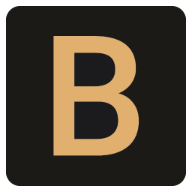
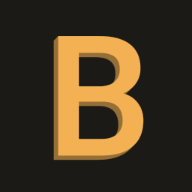
feat: Search Engine Optimization CMS
- Added SEO properties to the CMS
- Tweaked Theme Color
- Replaced favicons

diff --git a/pages/index.tsx b/pages/index.tsx
@@ -1,5 +1,4 @@
 import type { GetStaticProps } from "next";
-import Head from "next/head";
 import Footer from "../components/Footer";
 import Header from "../components/Header/Header";
 import Landing from "../components/Landing";
@@ -7,23 +6,26 @@ import SectionComponent from "../components/Section";
 import React, { createRef, useEffect, useState } from "react";
 import ProjectsGrid from "../components/Projects/ProjectsGrid";
 import SkillsGrid from "../components/Skills/SkillsGrid";
-import { Project, Section, SkillGroup, Social } from "../typings";
+import { Project, Section, SEO, SkillGroup, Social } from "../typings";
 import { sanityClient } from "../sanity";
 import {
   projectsQuery,
   sectionsQuery,
+  seoQuery,
   skillsQuery,
   socialsQuery,
 } from "../lib/getQuery";
+import SEOComponent from "../components/SEO";
 
 interface Props {
+  seo: SEO;
   sections: Section[];
   projects: Project[];
   skills: SkillGroup[];
   socials: Social[];
 }
 
-const Home = ({ sections, projects, skills, socials }: Props) => {
+const Home = ({ seo, sections, projects, skills, socials }: Props) => {
   const [currentElementIndexInViewport, setCurrentElementIndexInViewport] =
     useState(0);
 
@@ -66,14 +68,7 @@ const Home = ({ sections, projects, skills, socials }: Props) => {
 
   return (
     <div>
-      <Head>
-        <title>
-          Borhan Saflo | Web Developer, Designer, & Aspiring Software Engineer
-        </title>
-        <meta name="description" content="Borhan Saflo" />
-        <link rel="icon" href="/favicon.ico" />
-      </Head>
-
+      <SEOComponent seo={seo} />
       <Header
         sections={sections}
         socials={socials}
@@ -109,6 +104,7 @@ const Home = ({ sections, projects, skills, socials }: Props) => {
 export default Home;
 
 export const getStaticProps: GetStaticProps = async ({ params }) => {
+  const seo: SEO = await sanityClient.fetch(seoQuery);
   const socials: Social[] = await sanityClient.fetch(socialsQuery);
   const sections: Section[] = await sanityClient.fetch(sectionsQuery);
   const projects: Project[] = await sanityClient.fetch(projectsQuery);
@@ -116,6 +112,7 @@ export const getStaticProps: GetStaticProps = async ({ params }) => {
 
   return {
     props: {
+      seo,
       projects,
       sections,
       skills,

diff --git a/components/SEO/index.tsx b/components/SEO/index.tsx
@@ -1,0 +1,60 @@
+import React from "react";
+import Head from "next/head";
+import { SEO } from "../../typings";
+import { urlFor } from "../../sanity";
+
+const SEO = ({ seo }: { seo: SEO }) => {
+  const socialTags = (seo: SEO) => {
+    const metaTags = [
+      { name: "og:title", content: seo.title },
+
+      { name: "og:type", content: seo.openGraphType },
+      { name: "og:url", content: seo.url },
+      {
+        name: "og:image",
+        content: seo.image
+          ? urlFor(seo.image).url()
+          : "/images/Borhan-Saflo-Logo.png",
+      },
+      { name: "og:image:width", content: "800" },
+      { name: "og:image:height", content: "800" },
+      { name: "og:image:alt", content: seo.title },
+      { name: "og:description", content: seo.description },
+      { name: "og:site_name", content: seo.title },
+      { name: "twitter:title", content: seo.title },
+      { name: "twitter:description", content: seo.description },
+      {
+        name: "twitter:image:src",
+        content: seo.image
+          ? urlFor(seo.image).url()
+          : "/images/Borhan-Saflo-Logo.png",
+      },
+      { name: "twitter:card", content: "app" },
+      { name: "theme-color", content: seo.themeColor },
+    ];
+    return metaTags;
+  };
+
+  return (
+    <Head>
+      <title>{seo.title}</title>
+      <meta name="description" content={seo.description} />
+      <meta name="viewport" content="width=device-width, initial-scale=1" />
+      <link rel="icon" href="/favicon.ico" />
+      <meta itemProp="name" content={seo.title} />
+      <meta itemProp="description" content={seo.description} />
+
+      <meta
+        itemProp="image"
+        content={
+          seo.image ? urlFor(seo.image).url() : "/images/Borhan-Saflo-Logo.png"
+        }
+      />
+      {socialTags(seo).map(({ name, content }) => {
+        return <meta key={name} name={name} content={content} />;
+      })}
+    </Head>
+  );
+};
+
+export default SEO;

diff --git a/sanity/schemas/seo.js b/sanity/schemas/seo.js
@@ -1,0 +1,48 @@
+export default {
+  name: "seo",
+  title: "SEO",
+  type: "document",
+  fields: [
+    {
+      name: "siteName",
+      title: "Site Name",
+      type: "string",
+    },
+    {
+      name: "title",
+      title: "Title",
+      type: "string",
+    },
+    {
+      name: "description",
+      title: "Description",
+      type: "string",
+    },
+    {
+      name: "url",
+      title: "Url",
+      type: "string",
+    },
+    {
+      name: "image",
+      title: "Image",
+      type: "image",
+      options: {
+        hotspot: true,
+      },
+    },
+    {
+      name: "themeColor",
+      title: "Theme Color",
+      type: "string",
+    },
+    {
+      name: "openGraphType",
+      title: "Open Graph Type",
+      type: "string",
+      options: {
+        list: ["article", "website"],
+      },
+    },
+  ],
+};

diff --git a/sanity/schemas/schema.js b/sanity/schemas/schema.js
@@ -11,6 +11,7 @@ import tag from "./tag";
 import skill from "./skill";
 import skillGroup from "./skillGroup";
 import social from "./social";
+import seo from "./seo";
 
 // Then we give our schema to the builder and provide the result to Sanity
 export default createSchema({
@@ -25,5 +26,6 @@ export default createSchema({
     skill,
     skillGroup,
     social,
+    seo,
   ]),
 });

diff --git a/styles/_variables.scss b/styles/_variables.scss
@@ -5,7 +5,7 @@ $darkTertiary: lighten($darkPrimary, 8%);
 $lightPrimary: #fcfcfc;
 $lightSecondary: darken($lightPrimary, 4%);
 $lightTertiary: darken($lightPrimary, 8%);
-$primary: #f1bb64;
+$primary: #f3b153;
 $secondary: saturate(darken($primary, 4%), 2%);
 $tertiary: saturate(darken($primary, 8%), 6%);
 $primaryBoxShadow: rgba(0, 0, 0, 0.2);

diff --git a/typings.d.ts b/typings.d.ts
@@ -81,3 +81,18 @@ export type SocialBody = {
   link: string;
   icon: string;
 };
+
+export interface SEO extends SEOBody {
+  _id: string;
+  _type: "seo";
+}
+
+export type SEOBody = {
+  siteName: string;
+  title: string;
+  description: string;
+  image: string;
+  url: string;
+  themeColor: string;
+  openGraphType: string;
+};

diff --git a/sanity/deskStructure.js b/sanity/deskStructure.js
@@ -44,4 +44,7 @@ export default () =>
         .title("Socials")
         .schemaType("social")
         .child(S.documentTypeList("social").title("Socials")),
+      S.listItem()
+        .title("SEO")
+        .child(S.document().schemaType("seo").documentId("seo")),
     ]);

diff --git a/styles/Header.module.scss b/styles/Header.module.scss
@@ -84,8 +84,9 @@
 }
 
 .logo {
-  @include flexCenter;
   @include noDrag;
+  display: flex;
+  align-items: flex-end;
   height: 38px;
   font-size: 2rem;
   font-weight: 600;

diff --git a/lib/getQuery.ts b/lib/getQuery.ts
@@ -60,3 +60,10 @@ export const socialsQuery = groq`
     link,
  }
 `;
+
+export const seoQuery = groq`
+*[_type == "seo"][0] {
+    _id,
+  ...
+ }
+`;
